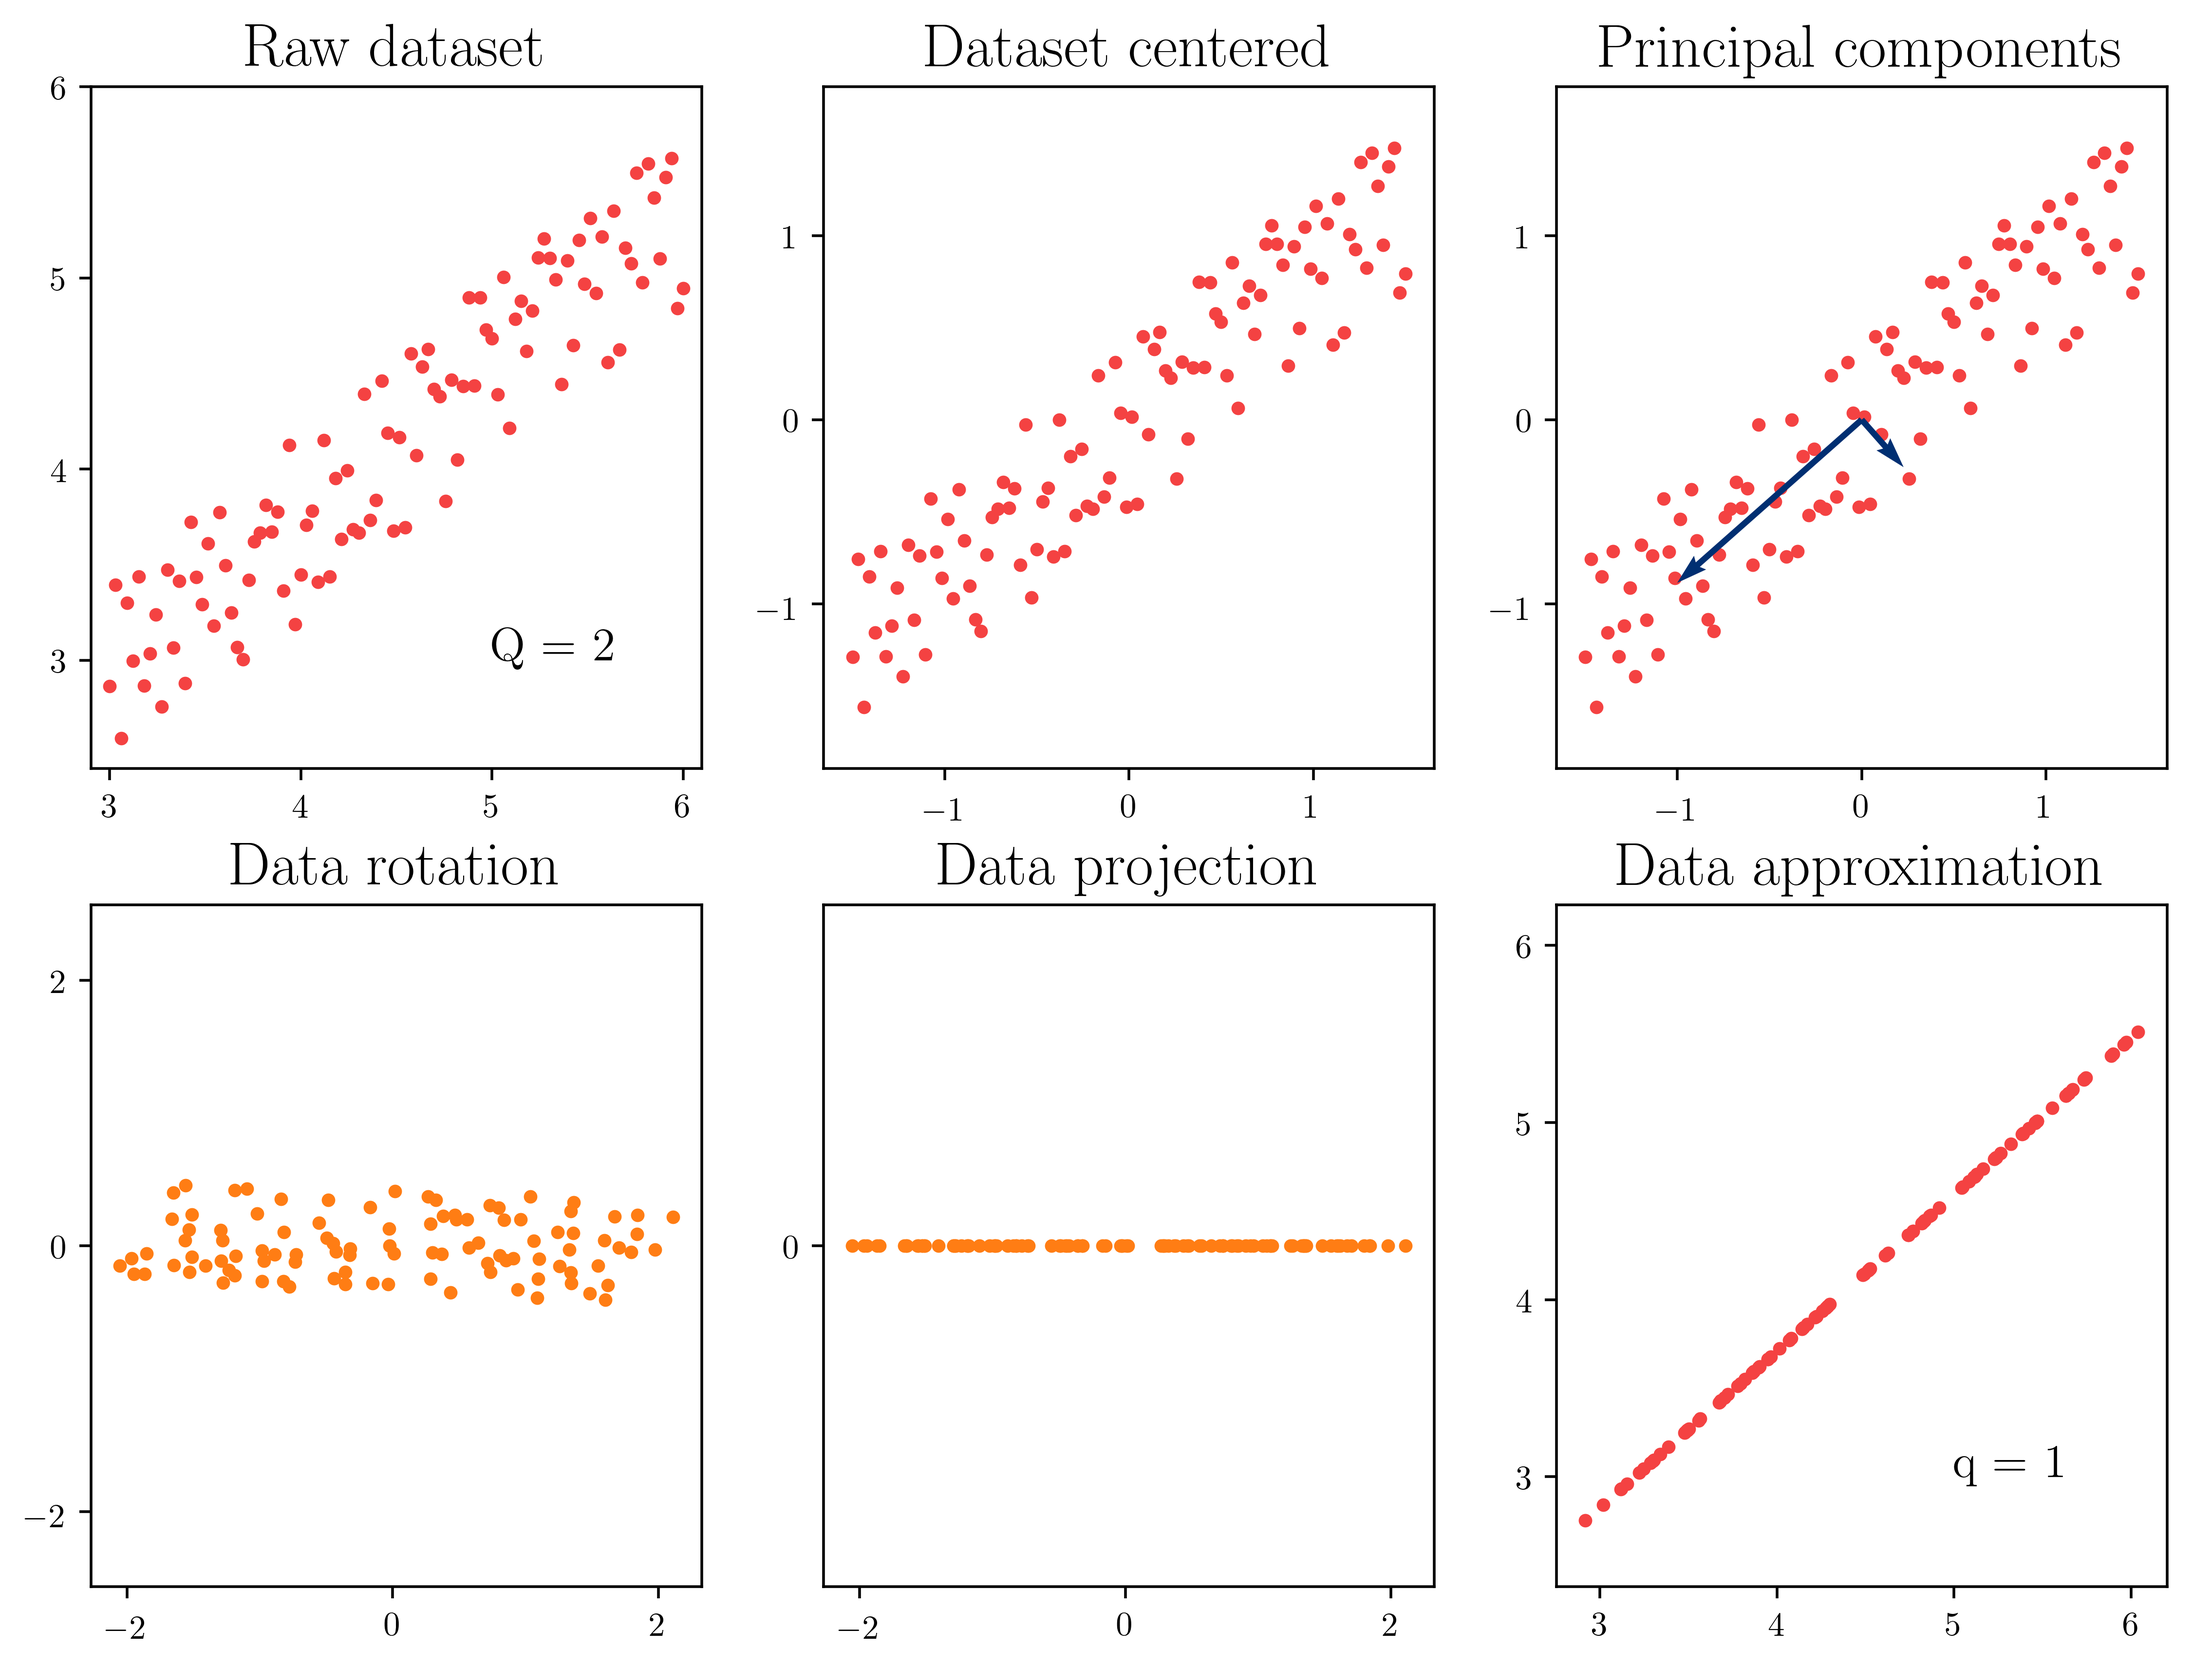
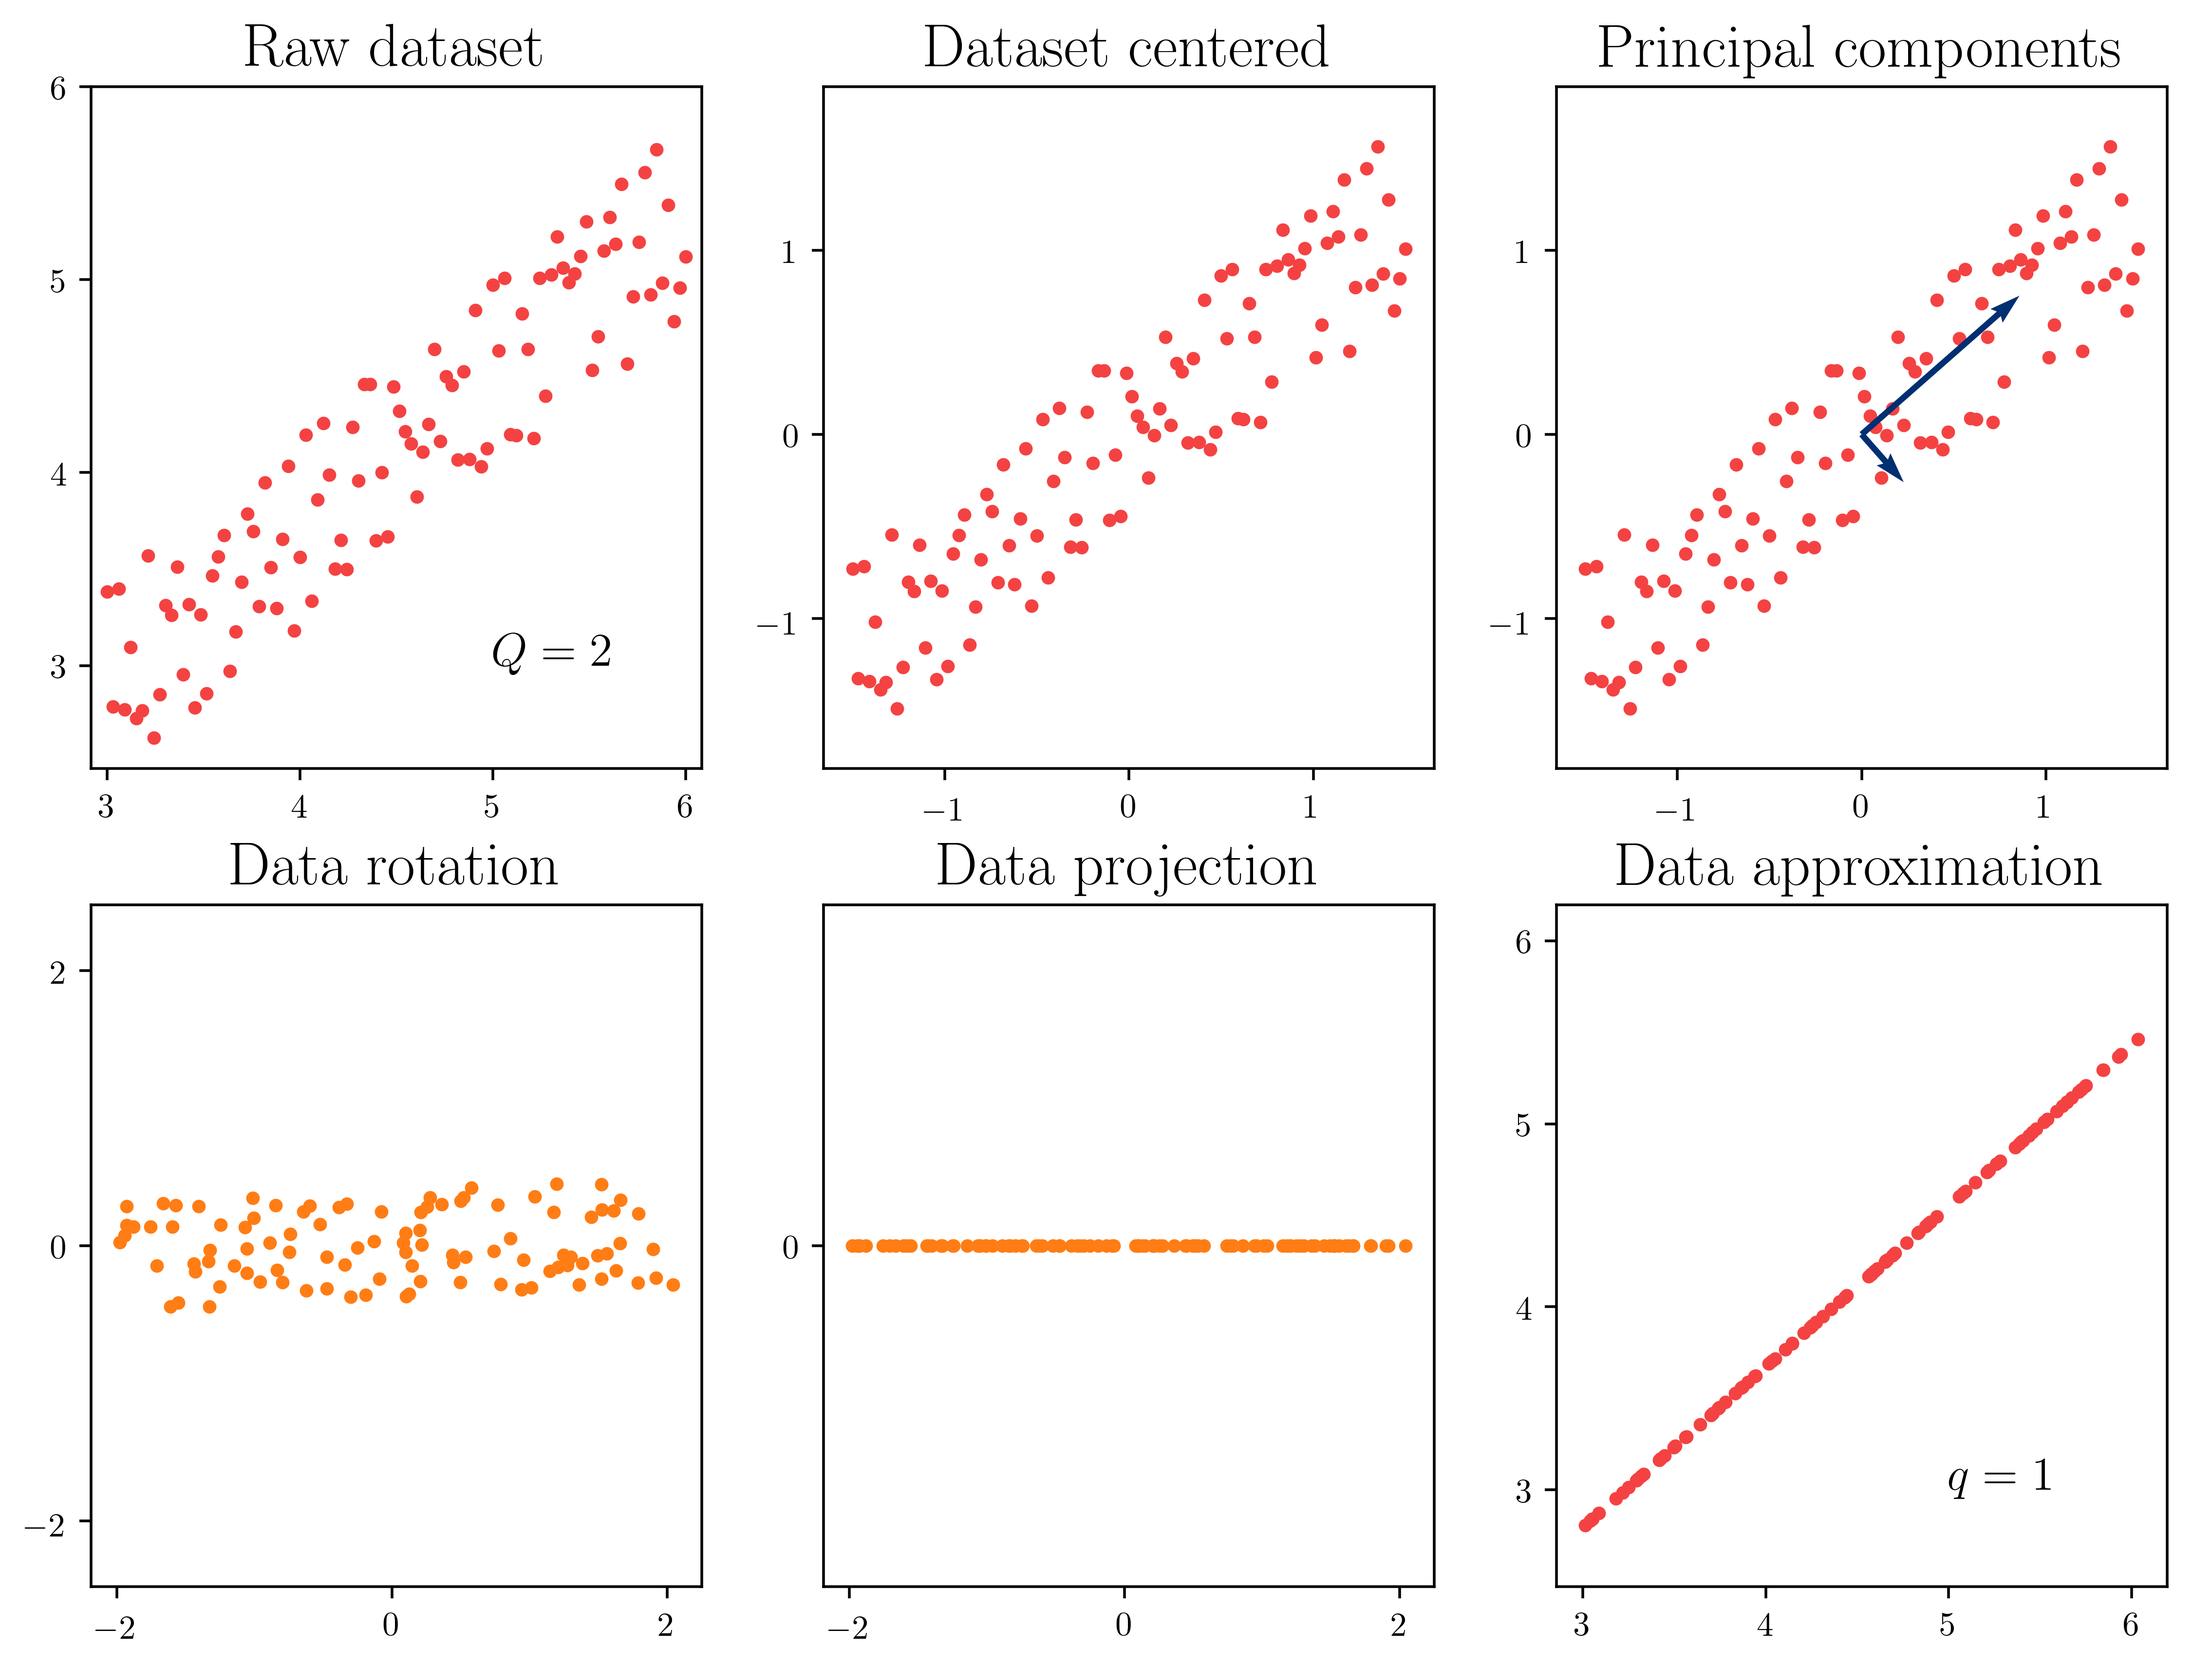
Plot updates

diff --git a/PCA/pca-example-subplot.py b/PCA/pca-example-subplot.py
@@ -41,7 +41,7 @@ figure = plt.figure(figsize=(11, 8))
 plt.subplot(2,3,1)
 plt.scatter(Dataset[:,0], Dataset[:,1], color=lineColour, marker='.', linewidth=ln)
 plt.title('Raw dataset', **csfont, fontsize=font_title)
-plt.text(5, 3, 'Q = 2', **csfont, fontsize=font_text)
+plt.text(5, 3, r'$Q = 2$', **csfont, fontsize=font_text)
 plt.axis('equal')
 plt.yticks([3, 4, 5, 6]), plt.xticks([3, 4, 5, 6])
 
@@ -76,7 +76,7 @@ plt.yticks([0]), plt.xticks([-2, 0, 2])
 plt.subplot(2,3,6)
 plt.scatter([Dataset_approx[:,0]], [Dataset_approx[:,1]], color=lineColour, marker='.', linewidth=ln)
 plt.title('Data approximation', **csfont, fontsize=font_title)
-plt.text(5, 3, 'q = 1', **csfont, fontsize=font_text)
+plt.text(5, 3, r'$q = 1$', **csfont, fontsize=font_text)
 plt.axis('equal')
 plt.yticks([3, 4, 5, 6]), plt.xticks([3, 4, 5, 6])
 
